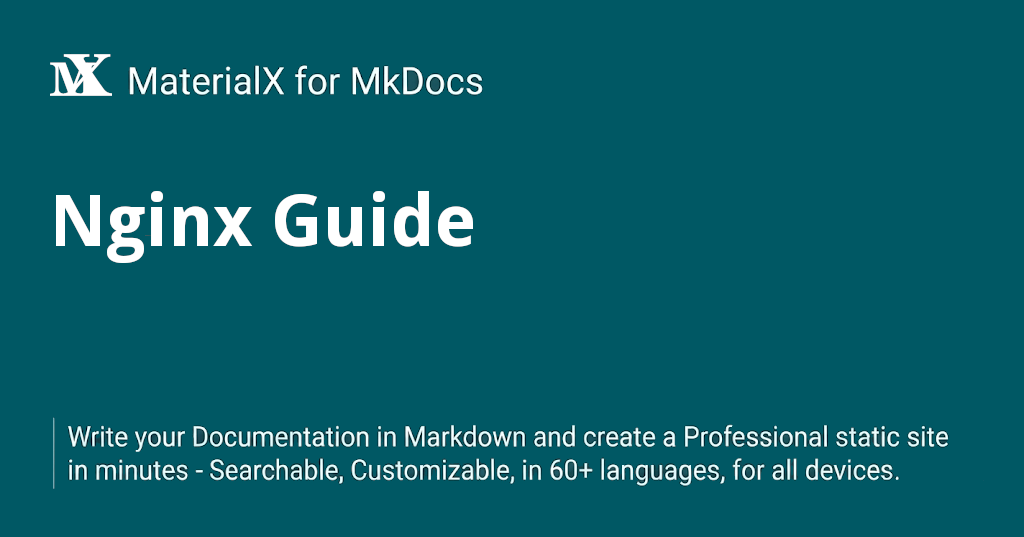
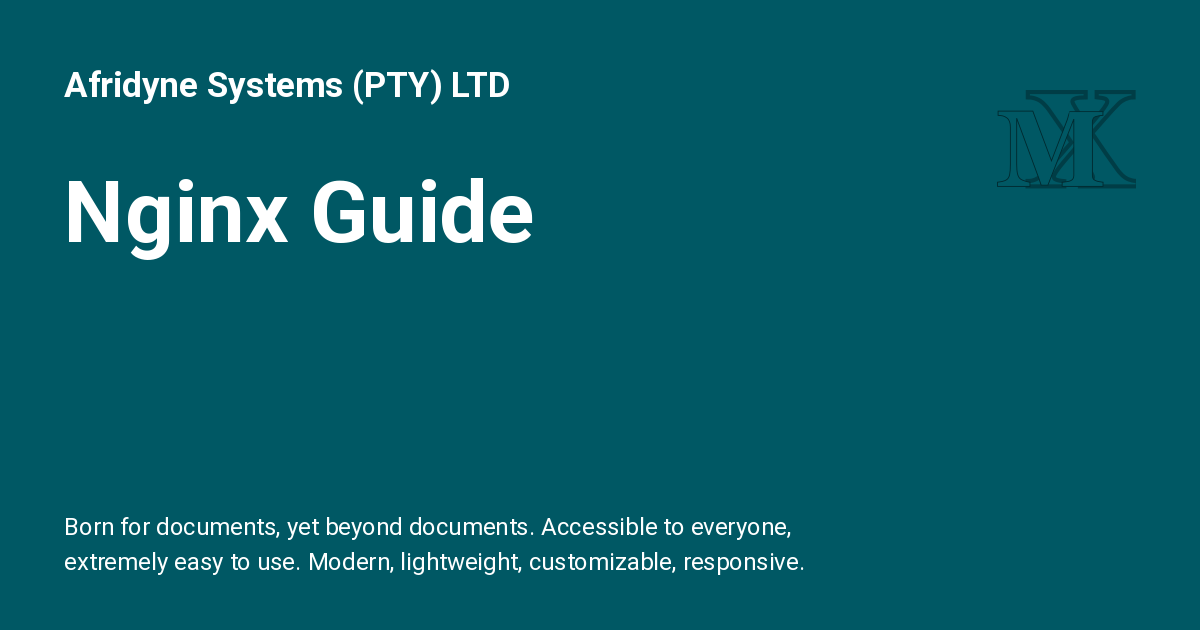
Workflow Update

diff --git a/docs/LunarVim.md b/docs/LunarVim.md
@@ -10,7 +10,16 @@ icon: material/alert-outline
 
 !!! important "Update"
 
-     [LunarVim](https://lunarvim.org) is no longer actively maintained by its primary creator, who has moved on to other configurations like AstroNvim and LazyVim. The project is largely abandoned by its main lead, though some community contributions still exist. I thought to leave the page here in the event someone is looking for information or any form of help and if anyone want's to transition to [LazyVim](https://github.com/lazyvim/lazyvim) there is a comprehensive page [here](LazyVim.md#background){data-preview}
+     [LunarVim](https://github.com/LunarVim/LunarVim) is no longer actively maintained by its primary creator, who has moved on to other configurations like AstroNvim and LazyVim. The project is largely abandoned by its main lead, though some community contributions still exist. I thought to leave the page here in the event someone is looking for information or any form of help and if anyone want's to transition to [LazyVim](https://github.com/lazyvim/lazyvim) there is a comprehensive page [here](LazyVim.md#background){data-preview}
+     
+    Recent update 16/10/2026
+    
+    - Official Domain Lapsed: Note that lunarvim.org is completely dead and yields a 404 error.
+    
+    - Installation Scripts Broken: Explicitly warn users that the universal curl installation script (bash <(curl -s https://lunarvim.org/install.sh)) is broken and will fail immediately because the source file no longer exists.
+    
+    - Point to GitHub & Wayback Machine: Under your "Useful Documentation Links" section, you might want to swap out the dead lunarvim.org links to point directly to the LunarVim GitHub Repository (which is still up as a read-only archive) or to an Internet Archive Wayback Machine link so people can still read the original docs if they are stuck.
+      
 
 !!! desc "LunarVim"
 
@@ -92,10 +101,17 @@ icon: material/alert-outline
 
 !!! git "Useful Documentation Links"
 
-    - [Official LunarVim Documentation](https://www.lunarvim.org/docs/installation) — The core manual for custom configuration profiles.
+    The original two links [Official LunarVim Documentation] and [LunarVim Keybindings Guide] below have been changed to point to the `WayBack Machine`snapshot of `LunarVim`, as the old `LunarVim.org` links are all DEAD! The project has been fully terminated.
     
-    - [LunarVim Keybindings Guide](https://www.lunarvim.org/docs/features/core-plugins-list) — Comprehensive map of every default keystroke available.
+    - [Official LunarVim Documentation](https://web.archive.org/web/20260207013738/https://www.lunarvim.org/docs/installation) — The core manual for custom configuration profiles.
     
+    - [LunarVim Keybindings Guide](https://web.archive.org/web/20260207013738/https://www.lunarvim.org/docs/configuration/keybindings) — Comprehensive map of every default keystroke available.
+    
+    
+    Wayback Machine [Internet Archive WayBack Machine](https://archive.org/) — [Snapshot of LunarVim](https://web.archive.org/web/20260131182344/https://www.lunarvim.org/)
+    
+    ---
+        
     - [Lazy.nvim GitHub Profile](https://github.com/folke/lazy.nvim) — Understand how your newly installed plugin architecture coordinates packages.
     
     - [Marksman LSP Manual](https://github.com/artempyanykh/marksman) — Learn about the advanced Markdown link, reference, and header completions active in your workspace.
